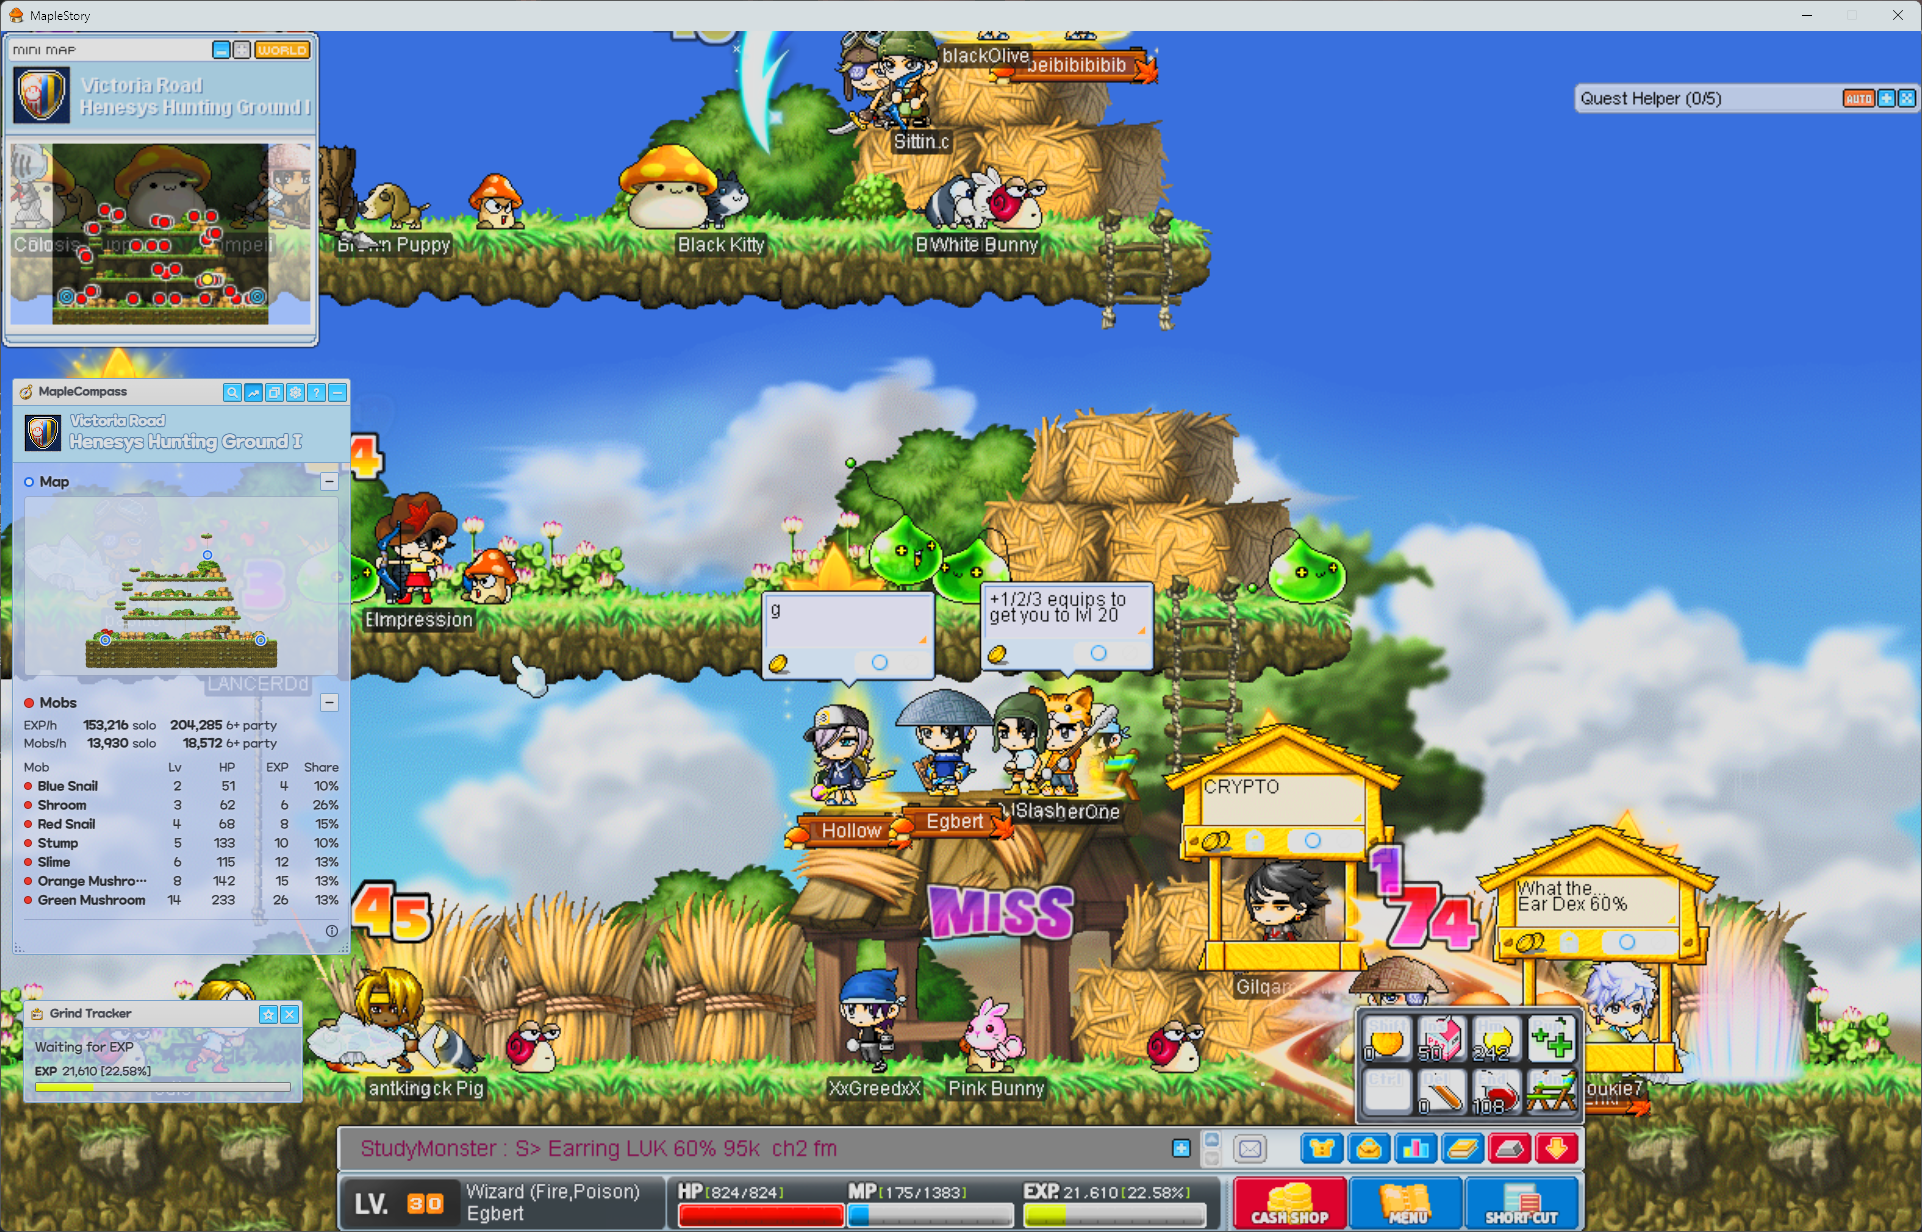
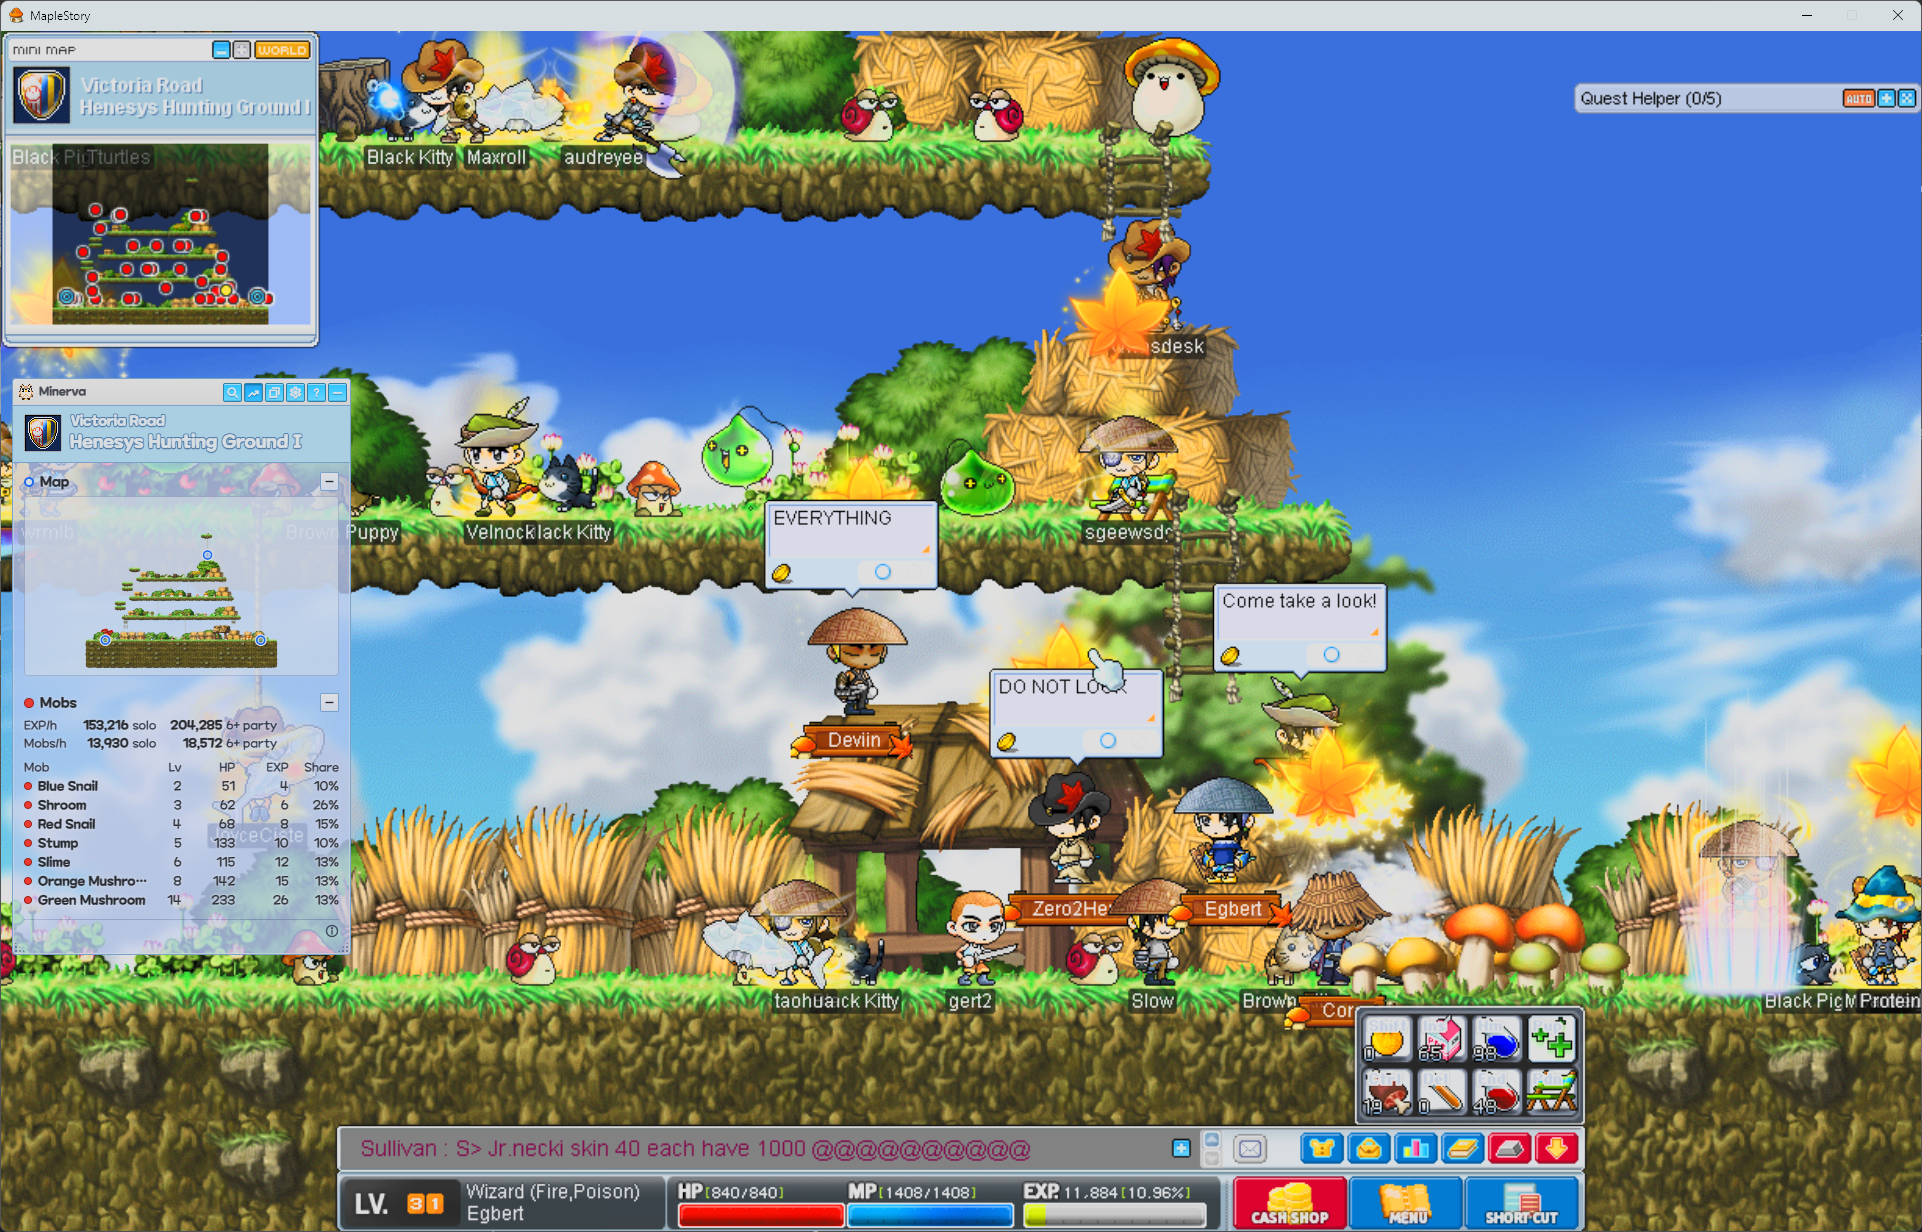
The site's game window and hero, retaken on Minerva
The panel's window bar shows the owl and "Minerva". The minimap's title and
the panel's sit where they did, in the same colours, so site/reel.ts is
unchanged; the hero is cut from the new window's top-left corner, pixel for
pixel. The Grind Tracker isn't in this shot, so the game window's alt text and
its row in the table no longer mention it. The Retake list is empty.

diff --git a/site/index.html b/site/index.html
@@ -442,7 +442,7 @@
                 <img
                   src="./screenshots/game-window.png"
                   sizes="(max-width: 640px) calc(100vw - 36px), 608px"
-                  alt="MapleStory on Henesys Hunting Ground I, with the Minerva panel inside the game window, dragged under the minimap: the map's picture, its EXP and mobs per hour and all seven of its mobs, and the Grind Tracker under the panel."
+                  alt="MapleStory on Henesys Hunting Ground I, with the Minerva panel inside the game window, dragged under the minimap: the map's picture, its EXP and mobs per hour and all seven of its mobs."
                   loading="lazy"
                   decoding="async"
                 />

diff --git a/site/screenshots/README.md b/site/screenshots/README.md
@@ -14,8 +14,8 @@ The pictures on the Minerva site, taken by hand in the game. The site's build fa
 
 | File | What it shows | Size | Taken on |
 | --- | --- | --- | --- |
-| `hero.png` | The minimap on a hunting map (Henesys Hunting Ground I) and the panel under it naming the same map beside its Map Mark, down through its Map and Mobs sections to the panel's foot, with a strip of the game beside it. Also the picture links to the site show (Discord, Reddit). | 600×960, the game window's top-left corner, its title bar included | 0.8.0 |
-| `game-window.png` | The game on the same map, with the panel inside the game window under the minimap showing its Map and Mobs sections, every mob listed, and the Grind Tracker under it. Also the hero's film, which marks and reads the minimap's title and drops the read into the panel's title: a retake that moves either title, or changes the map, means setting where they are and what the title says at the top of `site/reel.ts`. | 1922×1232, the whole window | 0.8.0 |
+| `hero.png` | The minimap on a hunting map (Henesys Hunting Ground I) and the panel under it naming the same map beside its Map Mark, down through its Map and Mobs sections to the panel's foot, with a strip of the game beside it. Also the picture links to the site show (Discord, Reddit). | 600×960, the game window's top-left corner, its title bar included | 0.9.0 |
+| `game-window.png` | The game on the same map, with the panel inside the game window under the minimap showing its Map and Mobs sections, every mob listed. Also the hero's film, which marks and reads the minimap's title and drops the read into the panel's title: a retake that moves either title, or changes the map, means setting where they are and what the title says at the top of `site/reel.ts`. | 1922×1232, the whole window | 0.9.0 |
 | `map.png` | The Map section on a map with a Hidden Portal: the Map Preview with its rings, the pointer resting on the dashed ring with its card showing, and the Hidden Portal's row, each with its destination's Map Mark. | 332×247, the panel's Map section | 0.8.0 |
 | `navigation.png` | The Map section with the next portal's magenta ring, and Navigation with a Hunting Target: the mob, the figures, and the route from the map you're on, each map with its Map Mark. | 317×475, the panel's Map and Navigation sections | 0.8.0 |
 | `grind-tracker.png` | The Grind Tracker: Time to Level, the rates, a Best row and the EXP gauge at its foot. | 280×159, the Grind Tracker's window | 0.7.0 |
@@ -26,5 +26,3 @@ The pictures on the Minerva site, taken by hand in the game. The site's build fa
 ## Retake
 
 When a change alters something a shot shows, the PR that makes it lists the shot here, with what changed. At release, the smoke test retakes every shot listed (`docs/releasing.md`) and empties the list.
-
-- `game-window.png` and `hero.png`: the app is Minerva now. The panel's window bar shows the owl and "Minerva" where it showed the compass and "MapleCompass". Retake the game window and cut the hero from it again, keeping the same map with the minimap's title and the panel's where they are, so `site/reel.ts` needs no change.
